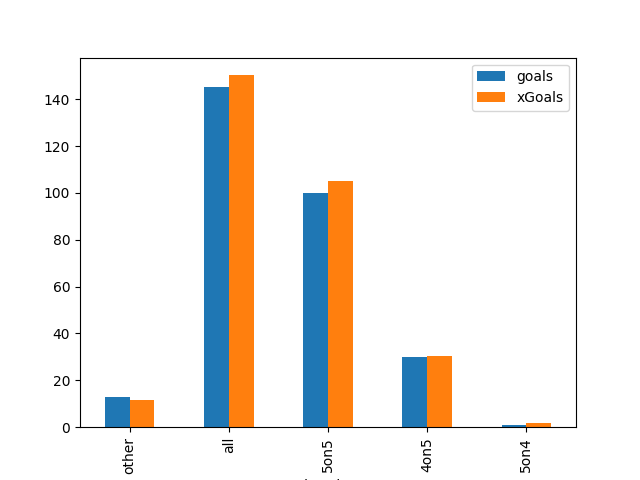
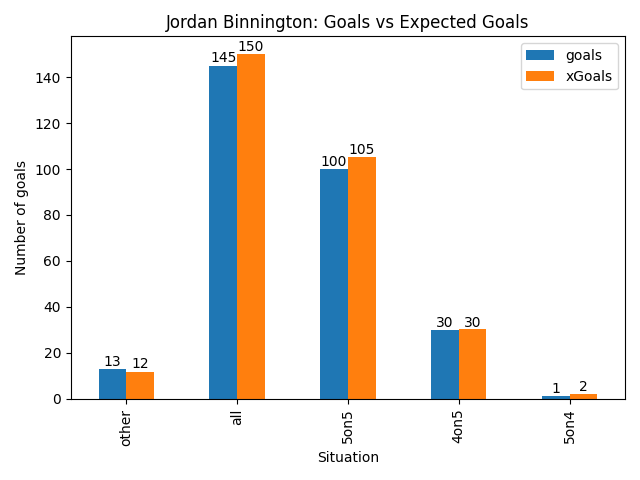
update the chart

diff --git a/analyze.py b/analyze.py
@@ -22,5 +22,19 @@ df = pd.read_csv("data/goalies.csv")
 binnington = df[df["name"] == "Jordan Binnington"]
 
 # Bar chart of goals vs xGoals
-binnington.plot.bar(x="situation", y=["goals", "xGoals"])
+bar = binnington.plot.bar(x="situation", y=["goals", "xGoals"])
+
+bar.set_title("Jordan Binnington: Goals vs Expected Goals")
+bar.set_xlabel("Situation")
+bar.set_ylabel("Number of goals")
+
+for p in bar.patches:
+    height = round(p.get_height())  # Round the value
+    bar.annotate(f'{height}',
+                (p.get_x() + p.get_width() / 2, height + 0.1),  # Slightly above bar
+                ha='center', va='bottom')
+
+# Save figure
+plt.tight_layout()
+
 plt.savefig("images/binnington_goals.png")

diff --git a/index.md b/index.md
@@ -26,12 +26,12 @@ The goalie for the Blues is **Jordan Binnington**. He came into the spotlight in
 Many fans in hockey don't know if **Binnington** is a good goalie or not. Some people think that he is flashy, but doesn't perform that great all the time. How can we tell if he is a good goalie or not? Are there numbers to back up either way? Of course there is, lets dive in.
 
 # Important Statistics
-What are some stats that would be key in showing the effectiveness of a goalie? Maybe you want to see the total goals that have given up, maybe goals per game, or maybe even goals per 60 minutes. These could all be good indicators to whether a goalie is good or not. What we are going to do for this example is load in an excel file of all goalie information from the 24-25 season and see how effective **Binnington** truly was. 
+What are some stats that would be key in showing the effectiveness of a goalie? Maybe you want to see the total goals that have given up, maybe goals per game, or maybe even goals per 60 minutes. These could all be good indicators to whether a goalie is good or not. What we are going to do for this example is load in an excel file of all goalie information from the 24-25 season and see how effective **Binnington** truly was. A link to download the file is found here: [Goalie Data](https://moneypuck.com/data.htm). Scroll down to goalies and download the 2024-2025 file.
 
 To read an Excel file in Python using pandas:
 
 ```python
-iimport pandas as pd
+import pandas as pd
 # Read your CSV file
 df = pd.read_csv("data/goalies.csv")
 
